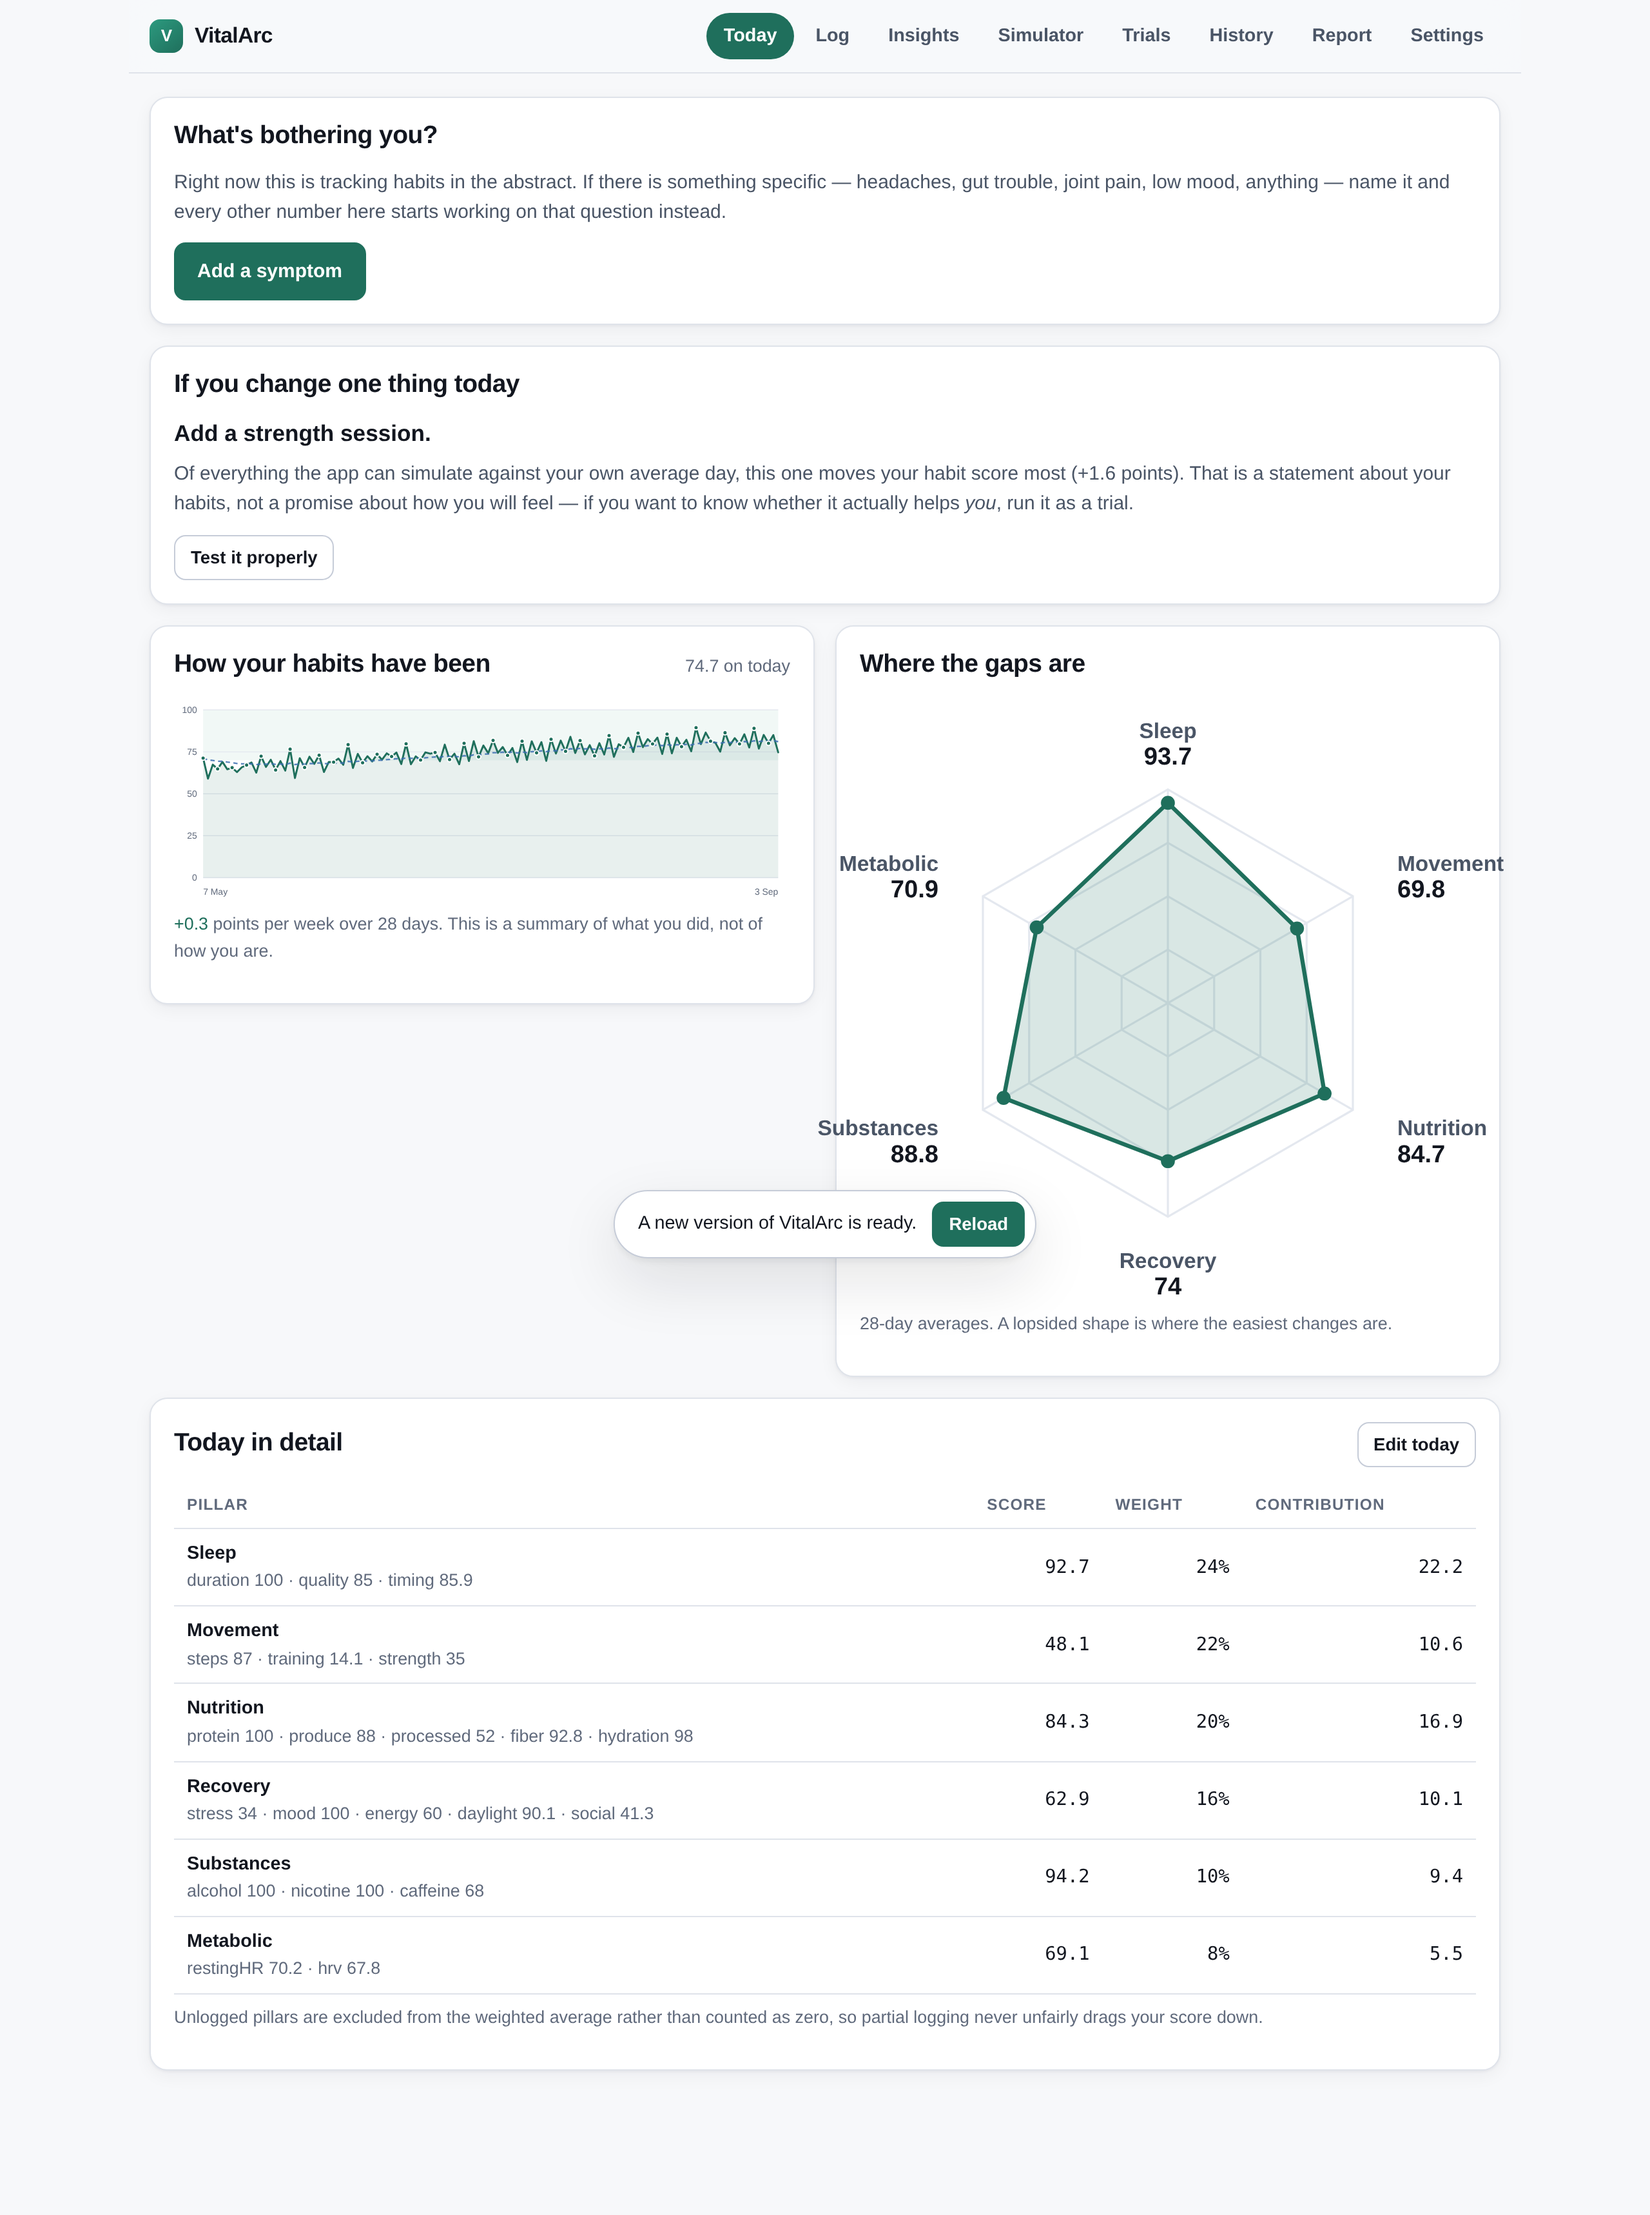
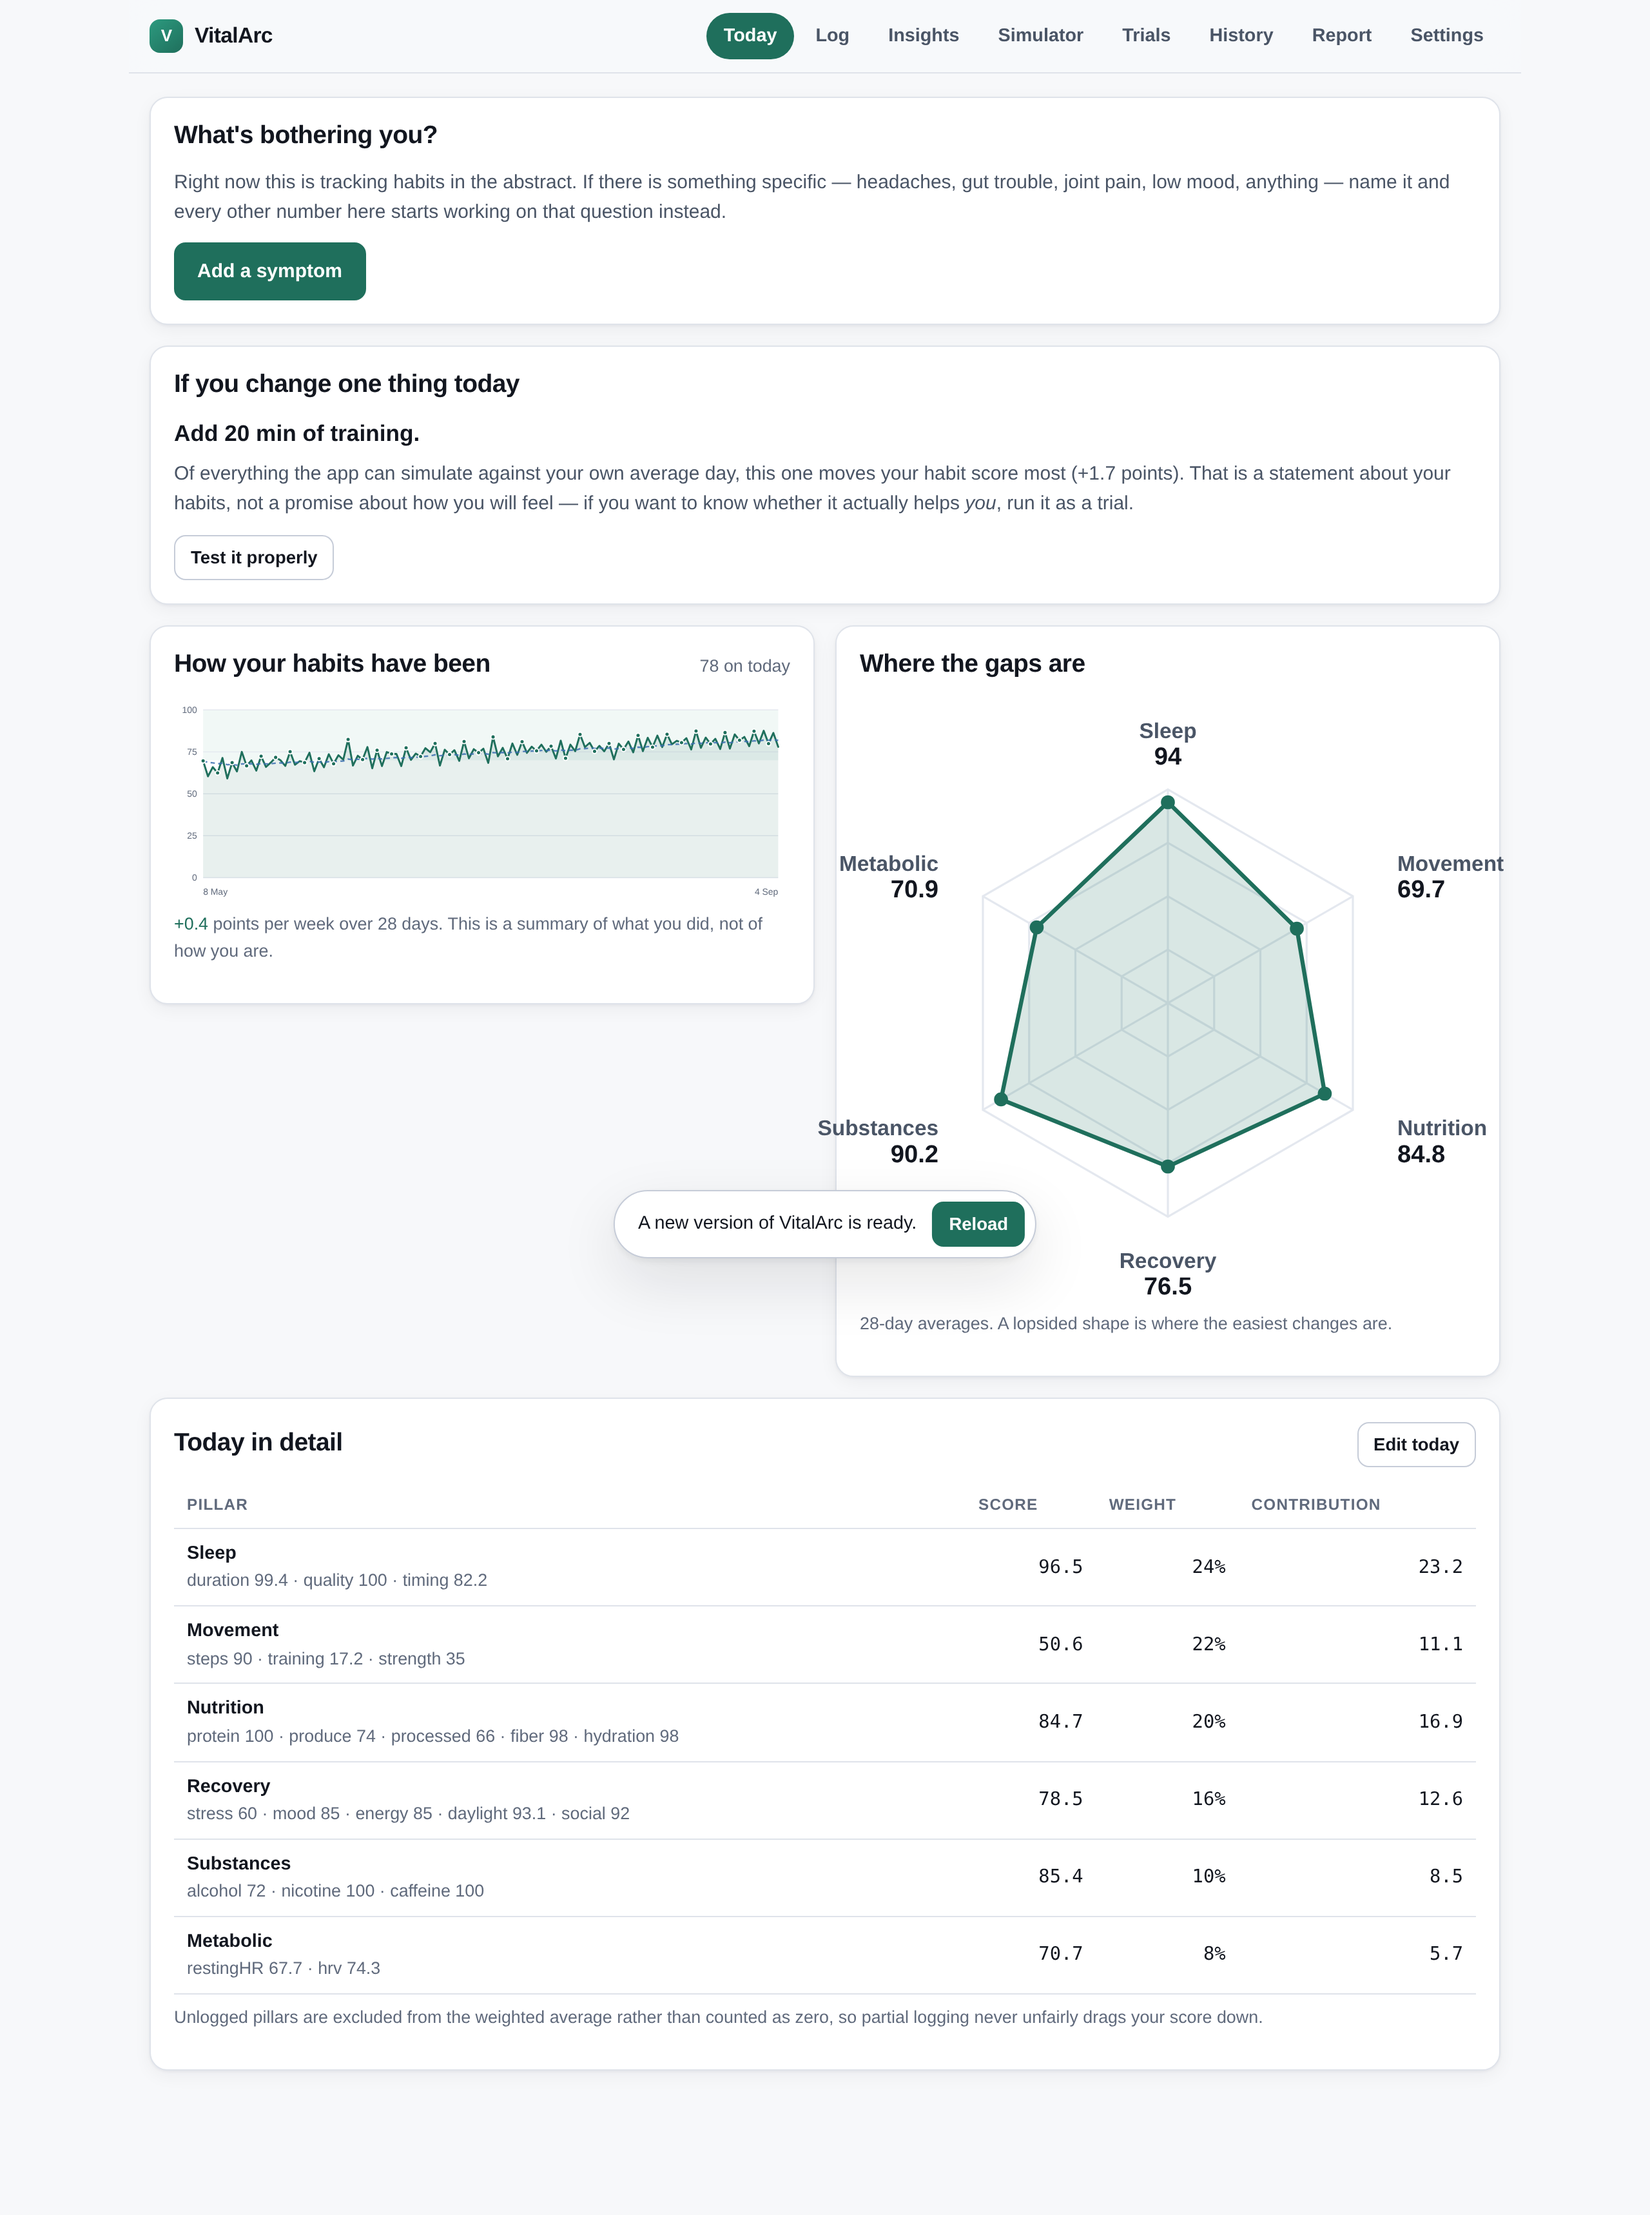
Lead the front page with the app's own findings, not a simulation
topLeverage answers "what would move an abstract habit score most against your
average day". That is a fair question when the app knows nothing about you and
the wrong one the moment it does. On the example log it put "add 20 min of
training" in the most prominent slot in the app, while the engine had already
found that this person's alcohol raises their headache by 1.3 points the next
day. The copy was honest about it — "a statement about your habits, not a
promise about how you will feel" — which means the app knew it was offering the
weaker signal and said so rather than offering the stronger one.

Evidence now outranks simulation. Where a finding names a symptom, points the
wrong way and maps to something you can deliberately change, the card leads with
that, labelled "from your log", quoting the effect in the same words the insight
card uses and carrying through to the pre-filled trial. topLeverage stays as the
fallback for anyone with no findings yet, which is everyone for their first few
months.

The main complaint wins ties: findings are ranked with the primary symptom first
and then by strength. The largest correlation in the example log is
ultra-processed to bloating at r = 0.68, but the person came here about their
headache, and being handed advice about bloating because that number happened to
be bigger is how people come to close an app. Only "costing you" findings
qualify, since every lever is of the form "avoid X for a day" and a protective
[…]

diff --git a/app/js/ui.js b/app/js/ui.js
@@ -156,6 +156,48 @@ function todayFocus(state, running) {
       </div>`;
     }
   }
+  // Evidence outranks simulation. topLeverage answers "what would move an
+  // abstract habit score", which is a fine question when the app knows nothing
+  // about you and the wrong one the moment it does. On the example log it put
+  // "add 20 min of training" on the front page while the engine had already
+  // found that this person's alcohol raises their headache by 1.12 points the
+  // next day — the app burying its own best finding under a simulation.
+  //
+  // Only "costing you" findings about a symptom qualify: the levers are all of
+  // the form "avoid X for a day", so a protective factor has no action to
+  // offer, and a finding about sleep quality is not what someone tracking
+  // migraines came here for.
+  //
+  // Ranked by the main complaint first, then by strength. Someone who marked
+  // headache as the thing they are here for should not be handed advice about
+  // their bloating just because that correlation happened to be larger.
+  const primaryId = (state.symptoms || []).find((x) => x.primary && !x.archivedAt)?.id;
+  const evidenced = (state.insights?.findings || [])
+    .filter((f) => f.outcome.startsWith('s_') && f.r > 0)
+    .map((f) => ({ f, lever: leverForDriver(f.driver, state.factors) }))
+    .filter((x) => x.lever)
+    .sort((a, bb) => (bb.f.outcome === primaryId) - (a.f.outcome === primaryId))[0];
+
+  if (evidenced) {
+    const { f, lever } = evidenced;
+    const sym = labelFor(f.outcome, state.symptoms, state.factors).toLowerCase();
+    const windowed = f.driver.startsWith('w7_');
+    const when = windowed ? 'over a week' : f.lag === 0 ? 'the same day' : f.lag === 1 ? 'the next day' : `${f.lag} days later`;
+    const size = f.practical?.episodic
+      ? `your ${sym} turned up on ${f.practical.highRate}% of them against ${f.practical.lowRate}% of the rest`
+      : `your ${sym} runs ${Math.abs(f.practical?.delta ?? 0)} points higher`;
+    return `<div class="card">
+      <div class="card-head"><h2>If you change one thing today</h2><div class="spacer"></div>
+        <span class="pill pill-info" title="Chosen from what the app found in your own log, not from a simulation.">from your log</span></div>
+      <p style="font-size:1.1rem;margin-bottom:6px"><strong>${esc(lever.onText)}.</strong></p>
+      <p class="muted">On your higher-${esc(labelFor(windowed ? f.driver.slice(3) : f.driver, state.symptoms, state.factors).toLowerCase())}
+      days, ${esc(size)} ${esc(when)} — the strongest driver of your ${esc(sym)} that you can
+      actually do something about. It is still a correlation, so the way to know whether it is
+      really doing it to <em>you</em> is to vary it on purpose.</p>
+      <button class="btn btn-sm" data-action="test-finding" data-lever="${esc(lever.id)}" data-outcome="${esc(f.outcome)}">Test it properly</button>
+    </div>`;
+  }
+
   const top = (state.leverage || [])[0];
   if (!top) return '';
   return `<div class="card">

diff --git a/app/js/sample.js b/app/js/sample.js
@@ -122,6 +122,13 @@ export function generateSampleData(endDate = dateKey(), symptoms = SAMPLE_SYMPTO
   // Planted effect 4: dairy is a real headache trigger for this person, on top
   // of the drinking. Screens after 10pm is a red herring — a suspicion the data
   // does not support, which is the more common outcome and worth showing.
+  //
+  // The coefficient is 0.65 rather than 0.55 because the sample window ends on
+  // TODAY, so its 90 days cover a different mix of weekdays each day it is
+  // generated. At 0.55 the dairy finding sat right on the correction boundary
+  // and vanished whenever that window ended on a Friday: the tour lost the
+  // confirmed half of its confirmed-versus-ruled-out contrast one day in seven,
+  // and the end-to-end test asserting it failed every Friday.
   const rd = mulberry32(777005);
   for (const e of entries) {
     e.factors.f_dairy = Math.max(0, Math.min(3, Math.round(rd() * 3.4 - 0.7)));
@@ -130,7 +137,7 @@ export function generateSampleData(endDate = dateKey(), symptoms = SAMPLE_SYMPTO
   const rh2 = mulberry32(777006);
   for (let i = 1; i < entries.length; i++) {
     entries[i].symptoms.s_headache = clamp04(Math.round(
-      entries[i - 1].alcoholUnits * 0.55 + entries[i].factors.f_dairy * 0.55 + (rh2() - 0.5) * 1.4
+      entries[i - 1].alcoholUnits * 0.7 + entries[i].factors.f_dairy * 0.65 + (rh2() - 0.5) * 1.4
     ));
   }
 

diff --git a/app/sw.js b/app/sw.js
@@ -28,7 +28,7 @@
  * `npm run stamp-sw` writes a content hash of the shell into the line below,
  * and CI fails if it is stale — so this cannot be forgotten.
  */
-const VERSION = 'vitalarc-ef335e5120264f05';   // stamped by scripts/stamp-sw.mjs
+const VERSION = 'vitalarc-85d3412166b986d4';   // stamped by scripts/stamp-sw.mjs
 const SHELL = [
   './', './index.html', './css/app.css',
   './js/app.js', './js/ui.js', './js/engine.js', './js/insights.js',

diff --git a/docs/INSIGHTS.md b/docs/INSIGHTS.md
@@ -784,3 +784,58 @@ a fact a clinician can weigh and "about the same" is not.
 The two answers can still legitimately differ: one asks about the last month
 against the month before, the other about the whole period split in half. The
 wording says which is which.
+
+## The front page was burying the app's own best finding
+
+`topLeverage` answers "what would move an abstract habit score most against your
+own average day". That is a reasonable question when the app knows nothing about
+you, and the wrong one the moment it does.
+
+On the example log it put **"add 20 min of training"** on the front page — the
+single most prominent call to action in the app — while the engine had already
+found that this person's alcohol raises their headache by 1.3 points the next
+day. The copy was honest about what it was doing ("a statement about your
+habits, not a promise about how you will feel"), which meant the app knew it was
+offering the weaker signal and said so instead of offering the stronger one.
+
+Evidence now outranks simulation. Where a finding names a symptom, points the
+wrong way, and maps to something you can deliberately change, the card leads
+with that instead — labelled *from your log*, quoting the effect in the same
+words the insight card uses, and carrying through to the pre-filled trial.
+`topLeverage` remains the fallback for someone with no findings yet, which is
+everyone for their first few months.
+
+Two details that matter:
+
+- **The main complaint wins ties.** Findings are ranked with the symptom marked
+  as primary first, then by strength. On the example log the largest correlation
+  is ultra-processed → bloating (r = 0.68), but the person came here about their
+  headache, and being handed advice about their bloating because that number
+  happened to be bigger is the kind of thing that makes people close the app.
+- **Only "costing you" findings qualify.** Every lever is of the form "avoid X
+  for a day", so a protective factor has no action to offer.
+
+## A test that failed every Friday
+
+Fixing the above surfaced something worse than a bug: an end-to-end assertion
+that passed or failed **depending on the day of the week it was run**.
+
+`generateSampleData()` ends its 90-day window on *today*, and the generator has
+day-of-week structure, so the mix of weekdays in that window shifts every day.
+Both symptom findings sat right on the false-discovery-rate boundary. Measured
+across 120 consecutive end dates: dairy → headache was found on 111 of them and
+missing on 9 — precisely the Fridays. Alcohol → headache was worse, present on
+only 69 of 120.
+
+So the tour lost the confirmed half of its confirmed-versus-ruled-out contrast
+one day in seven, and the test asserting that contrast failed weekly. A suite
+that is untrustworthy on Fridays is worse than one that is simply red.
+
+The planted coefficients move from 0.55 to 0.65 (dairy) and 0.55 to 0.7
+(alcohol) — the smallest changes that clear the boundary. Across 120 end dates
+both findings are now present 120/120, the red herring is still found 0/120, and
+every date yields exactly five findings.
+
+The guard is a unit test rather than the e2e assertion that happened to catch
+it: seven consecutive end dates cover every weekday alignment, deterministically,
+in milliseconds, whenever anyone runs the suite.

diff --git a/README.md b/README.md
@@ -16,7 +16,7 @@ better information in front of them.
 ```bash
 npm install       # only for the browser test
 npm run serve     # http://localhost:8080/app/
-npm test          # 167 unit tests + the copy guard, no dependencies
+npm test          # 168 unit tests + the copy guard, no dependencies
 npm run e2e       # browser walkthrough (needs the server running)
 npm run stamp-sw  # before deploying — see below
 ```
@@ -83,7 +83,7 @@ app/
     ui.js               views (pure state -> HTML)
     app.js              state, routing, event delegation
 docs/                   scoring and insights methodology
-tests/                  167 unit tests, a copy guard, a browser walkthrough
+tests/                  168 unit tests, a copy guard, a browser walkthrough
 ```
 
 No frameworks, no runtime dependencies. Playwright is the only dev dependency.

diff --git a/docs/SCORING.md b/docs/SCORING.md
@@ -82,7 +82,7 @@ It is just not the first one, and it says nothing about whether you are well.
 
 ## Verification
 
-`npm test` runs 167 checks over this model, including:
+`npm test` runs 168 checks over this model, including:
 
 - score bounds held across 4,000 fuzzed out-of-range inputs
 - monotonicity where it should hold (alcohol strictly hurts) and non-monotonicity
